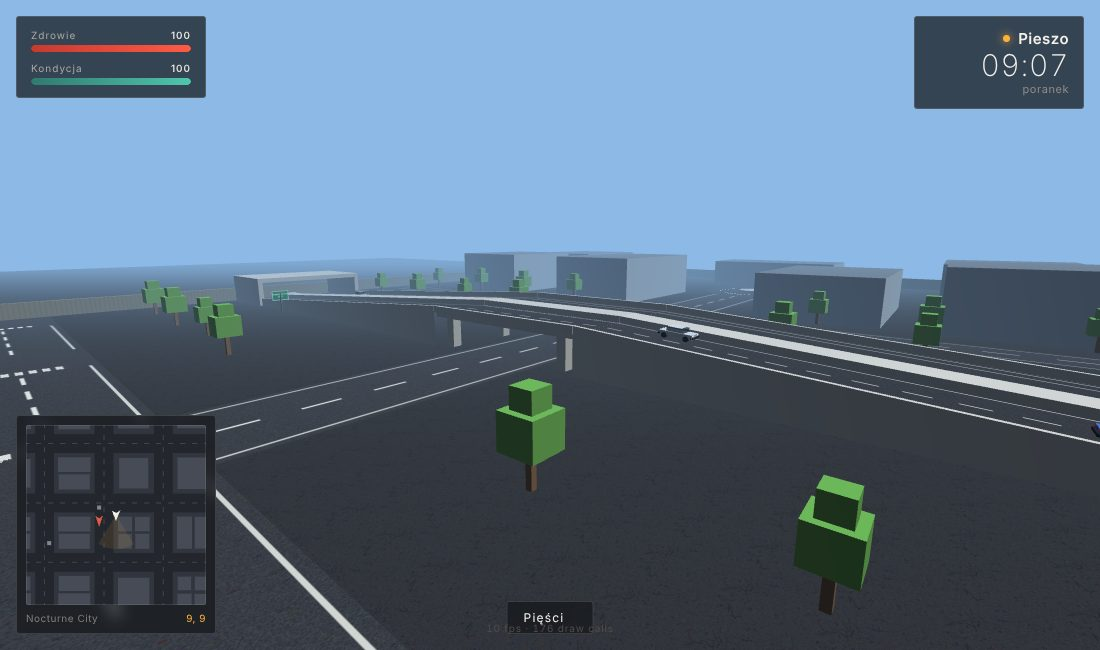
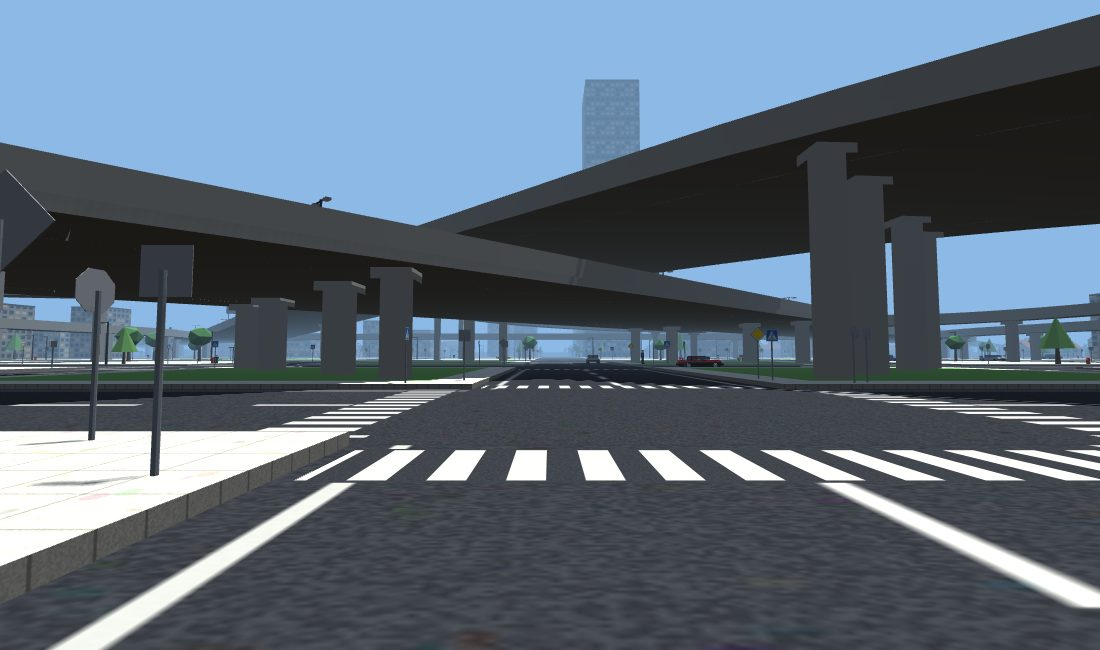
README i porządki po przebudowie autostrad (F5), nowe zrzuty ekranu
- README: autostrady A1/A2 po przekątnych, koniczyna, pas podmiejski, domki, limity, ograniczenia
- Komentarze bez odwołań do usuniętego highway.js; zrzuty: miasto, ulica pod estakadą, węzeł
- Testy: sim 1800 s bez nakładań i przekroczeń, krok fizyki 0,6–0,9 ms

diff --git a/js/road-rules.js b/js/road-rules.js
@@ -1,7 +1,7 @@
 /* ---------------------------------------------------------------
    7e. ORGANIZACJA RUCHU — strefy prędkości, droga z pierwszeństwem,
    jednokierunkowa obwodnica przy murze i ich oznakowanie. Wszystko
-   tu działa na NPC (update-npc.js, highway.js), znaki tylko to pokazują.
+   tu działa na NPC (update-npc.js, traffic-npc.js), znaki tylko to pokazują.
    - miasto = obszar zabudowany: 50 km/h (D-42 / D-43 na łącznicach),
      "Stare Miasto" (ulice wewnątrz kwadratu i,j = 4..8, między rondami): strefa 30 (B-43 / B-44),
      droga serwisowa w strefie wschodniej: 40 km/h (B-33),

diff --git a/js/hud.js b/js/hud.js
@@ -55,7 +55,7 @@ const mapStatic = mkCanvas(Math.ceil(MAP_W * MAP_SCALE), Math.ceil(MAP_H * MAP_S
     g.beginPath(); g.moveTo(wx(-CITY_EDGE), wz(L(i))); g.lineTo(wx(CITY_EDGE), wz(L(i))); g.stroke();
   }
   g.setLineDash([]);
-  /* autostrada, łącznice, ulica pod estakadą, droga serwisowa, plac i hale (highway.js) */
+  /* autostrady A1/A2, koniczyna, łącznice i zjazdy w pasie podmiejskim (highways.js) */
   mapExtras.forEach(e => {
     g.fillStyle = e.c; g.strokeStyle = e.c;
     if (e.t === 'rect') g.fillRect(wx(e.x0), wz(e.z0), (e.x1 - e.x0) * MAP_SCALE, (e.z1 - e.z0) * MAP_SCALE);

diff --git a/README.md b/README.md
@@ -39,12 +39,12 @@ Menu debug pozwala m.in. zmieniać liczbę aut i pieszych, ustawić i zatrzymać
 
 ## Co jest w grze
 
-- **Miasto** 12×12 kwartałów z dzielnicami (centrum z wieżowcami, handlowa, przemysłowa, mieszkalna), placami, parkami, parkingami i przystankami.
+- **Miasto** 12×12 kwartałów z dzielnicami (centrum z wieżowcami, handlowa, przemysłowa, mieszkalna z domkami na obrzeżach), placami, parkami, parkingami i przystankami, otoczone pasem podmiejskim z trawą i drzewami.
 - **Ruch uliczny**: auta NPC jeżdżą prawostronnie, stają na czerwonym (sygnalizatory trzykomorowe z fazą żółtą), zatrzymują się na STOP, ustępują wg reguły prawej ręki, a przy alei z pierwszeństwem — autom na niej. Konflikty na skrzyżowaniach rozstrzygają wg czasu dojazdu, więc auta się nie przenikają.
-- **Przepisy i znaki**: limity są egzekwowane (miasto 50 km/h, strefa 30 w Starym Mieście, droga serwisowa 40, autostrada 140, a przy węźle i tunelach 100). Jednokierunkowa obwodnica przy murze, aleja z pierwszeństwem, ponad 900 znaków (A-7, B-2, B-20, B-33, B-43/B-44, C-2, C-6, C-9, C-12, D-1, D-3, D-6, D-42/D-43) na słupkach, które nie przebijają tarcz.
+- **Przepisy i znaki**: limity są egzekwowane (miasto i pas podmiejski 50 km/h, strefa 30 w Starym Mieście, autostrady 100 km/h, łącznice i pętle węzła mniej). Jednokierunkowa obwodnica przy murze, aleja z pierwszeństwem, ponad 900 znaków (A-7, B-2, B-20, B-33, B-43/B-44, C-2, C-6, C-9, C-12, D-1, D-3, D-6, D-9/D-10, D-42/D-43, tablice kierunkowe) na słupkach, które nie przebijają tarcz.
 - **Ronda** o jednolitych parametrach: wyspa z opaską (R 4,5 m), pas okrężny 4,5 m, wloty i wyloty łukami z wysepkami rozdzielającymi, linie P-13. Auta NPC objeżdżają wyspę przeciwnie do ruchu wskazówek zegara i ustępują jadącym po rondzie.
 - **Piesi** spacerują po chodnikach i przechodzą przez jezdnię po przejściach (na światłach w swojej fazie), a auta im ustępują.
-- **Autostrada** dwujezdniowa z wyprzedzaniem lewym pasem, węzłem, estakadą, drogą pod nią, tunelami z oświetleniem i latarniami. Część aut miejskich wjeżdża na nią i zjeżdża łącznicami. W strefie wschodniej jeździ ruch po drodze serwisowej z zawrotkami.
+- **Autostrady A1 i A2** biegną estakadami po przekątnych miasta (pomost 7 m, A2 nad węzłem 14 m), z ulicami pod wiaduktami (prześwit ≥ 5,8 m, filary tylko w kwartałach). W centrum jest węzeł koniczynowy (4 pętle, 4 łącznice, jezdnie zbierające), a na końcach przekątnych zjazdy i wjazdy schodzą w pasie podmiejskim do poziomu ulic. Auta NPC jeżdżą trasami przez autostrady: wjeżdżają z przekątnych, przejeżdżają węzeł prosto, pętlą lub łącznicą i wracają ulicami.
 - **Gracz**: tryb pieszy i jazda autem z fizyką zawieszenia (RaycastVehicle), kradzież aut NPC, ekwipunek (pięści, kij, pistolet), pasek zdrowia i kondycji.
 - **Świat**: cykl dnia i nocy (słońce, księżyc, mgła, latarnie z plamami światła na jezdni), minimapa całego świata, dźwięk syntezowany (Web Audio).
 
@@ -53,7 +53,7 @@ Menu debug pozwala m.in. zmieniać liczbę aut i pieszych, ustawić i zatrzymać
 ```
 index.html        strona, style i HUD
 loadorder.txt     kolejność ładowania skryptów (ważna!)
-js/               kod gry (25 plików ładowanych kolejno z index.html)
+js/               kod gry (26 plików ładowanych kolejno z index.html; hwy-plan.js — geometria autostrad, highways.js — ich budowa)
 test/             testy: harness, symulacja ruchu, jazda autem, skrypt bundle
 ```
 
@@ -64,15 +64,16 @@ Skrypty to zwykłe pliki (bez bundlera) ze wspólnym zakresem globalnym, więc i
 ```
 npm install          # instaluje cannon@0.6.2 potrzebny testowi jazdy
 npm test             # harness + symulacja ruchu NPC (nakładanie aut, zakleszczenia, ronda, piesi, przepisy)
-npm run test:drive   # jazda prawdziwym autem: autostrada, łącznice, rondo, kolizje (ok. 3 min)
+npm run test:drive   # jazda prawdziwym autem: A1/A2, pętla, łącznica, zjazd/wjazd, ulica pod estakadą, rondo, kolizje (ok. 4 min)
 npm run bundle       # skleja grę w jeden plik gta-by-claude-single.html
 ```
 
 ## Plany i ograniczenia
 
 - Wnętrze miasta to nadal siatka ortogonalna, bez nieregularnych ulic (trasy NPC to stałe pętle, nie graf).
-- Węzeł autostradowy jest jednopoziomowy (jedna estakada), łącznice są tylko po stronie jezdni A.
-- Auta autostradowe nie dają się ukraść, a w tunelu auta „zawijają się” na drugi koniec.
+- Auta NPC na autostradach nie wyprzedzają ani nie zmieniają pasa (każda trasa ma stały pas), a na zjazdach i wjazdach jeżdżą stałymi trasami, nie grafem dróg.
+- Pas podmiejski ma 125 m (zjazdy potrzebują tyle na zejście z 7 m do poziomu gruntu), a przęsła łącznic mają do ok. 64 m.
+- Auto NPC na estakadzie można ukraść tylko z pomostu (gracz musi stać na tym samym poziomie).
 - AI NPC działa w całym mieście naraz (bez ograniczania obliczeń daleko od gracza i bez LOD).
 - Auta NPC nie omijają przeszkody na pasie (np. zaparkowanego auta gracza), tylko przed nią czekają.
 
